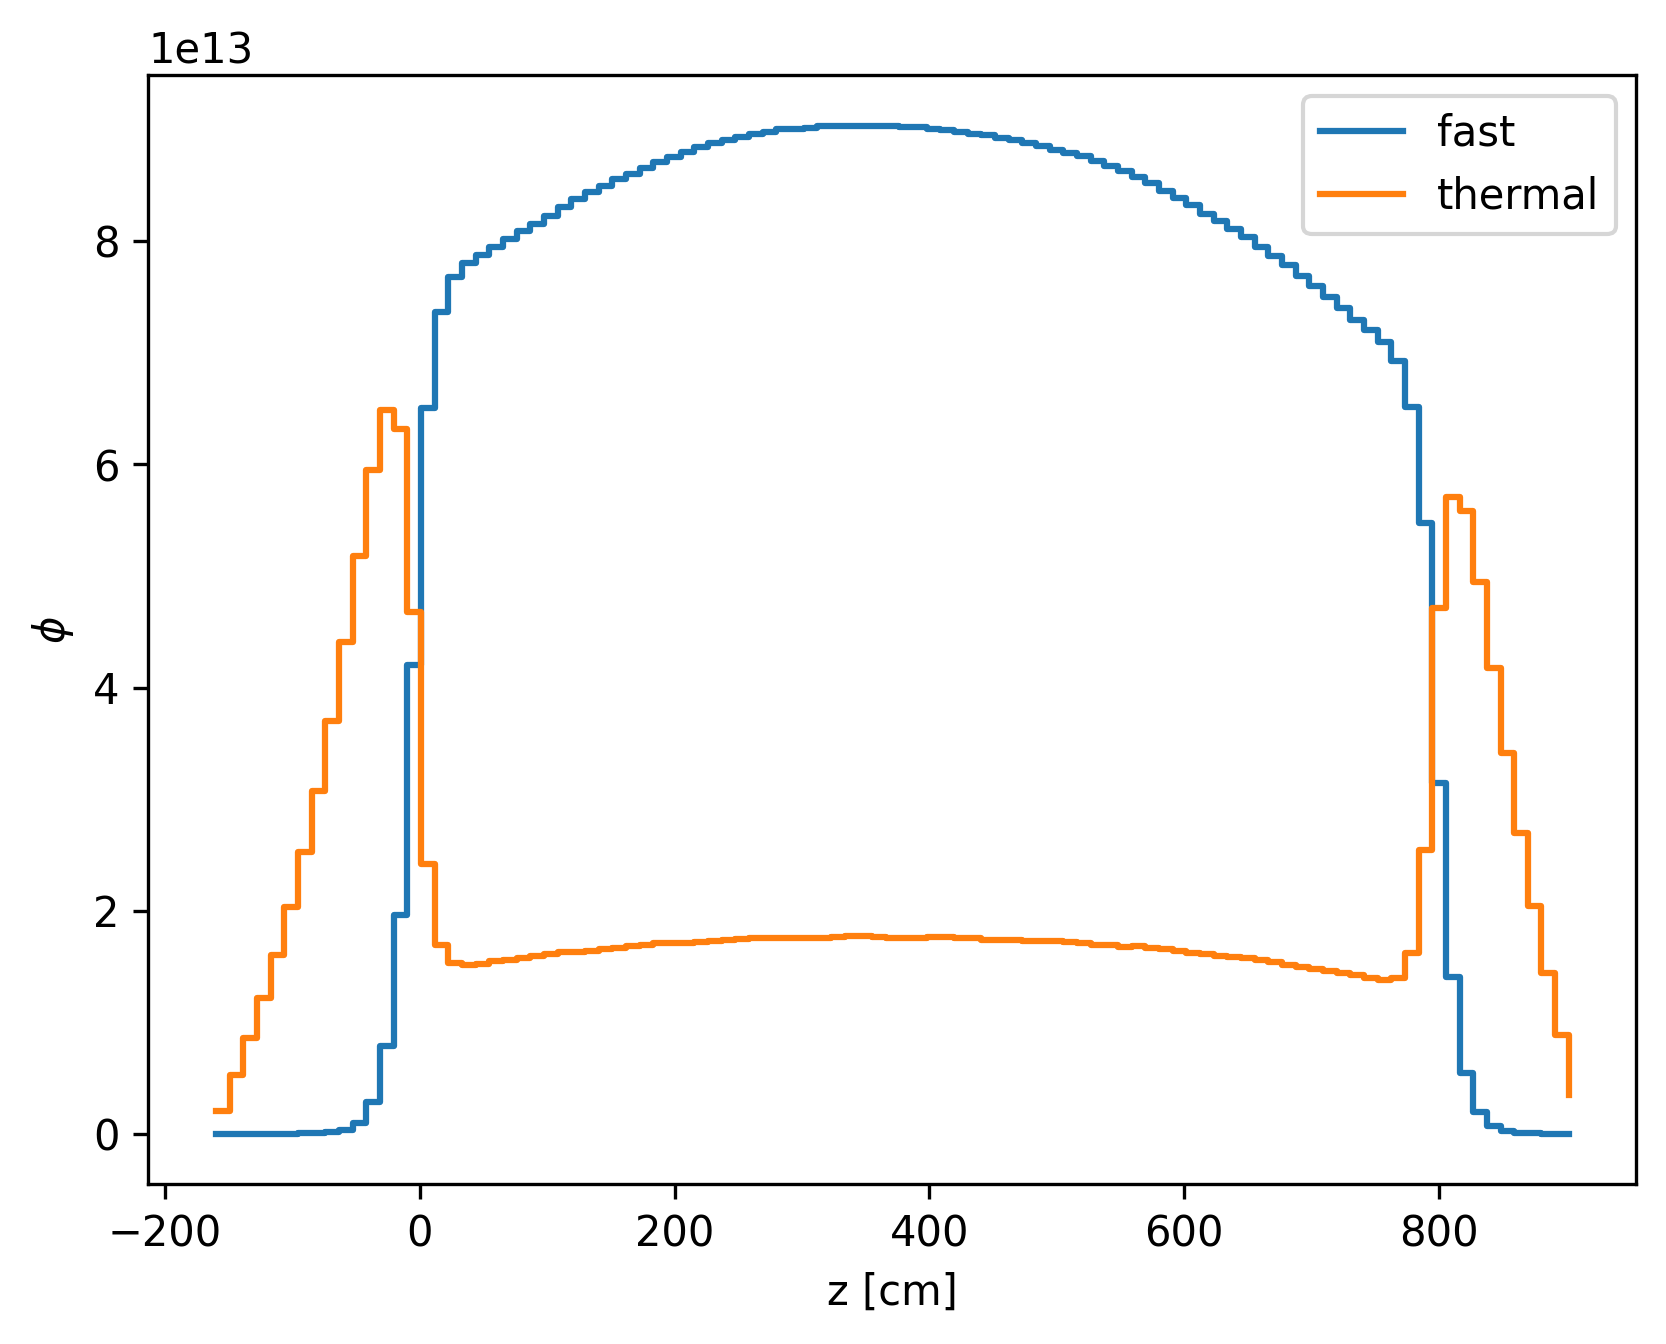
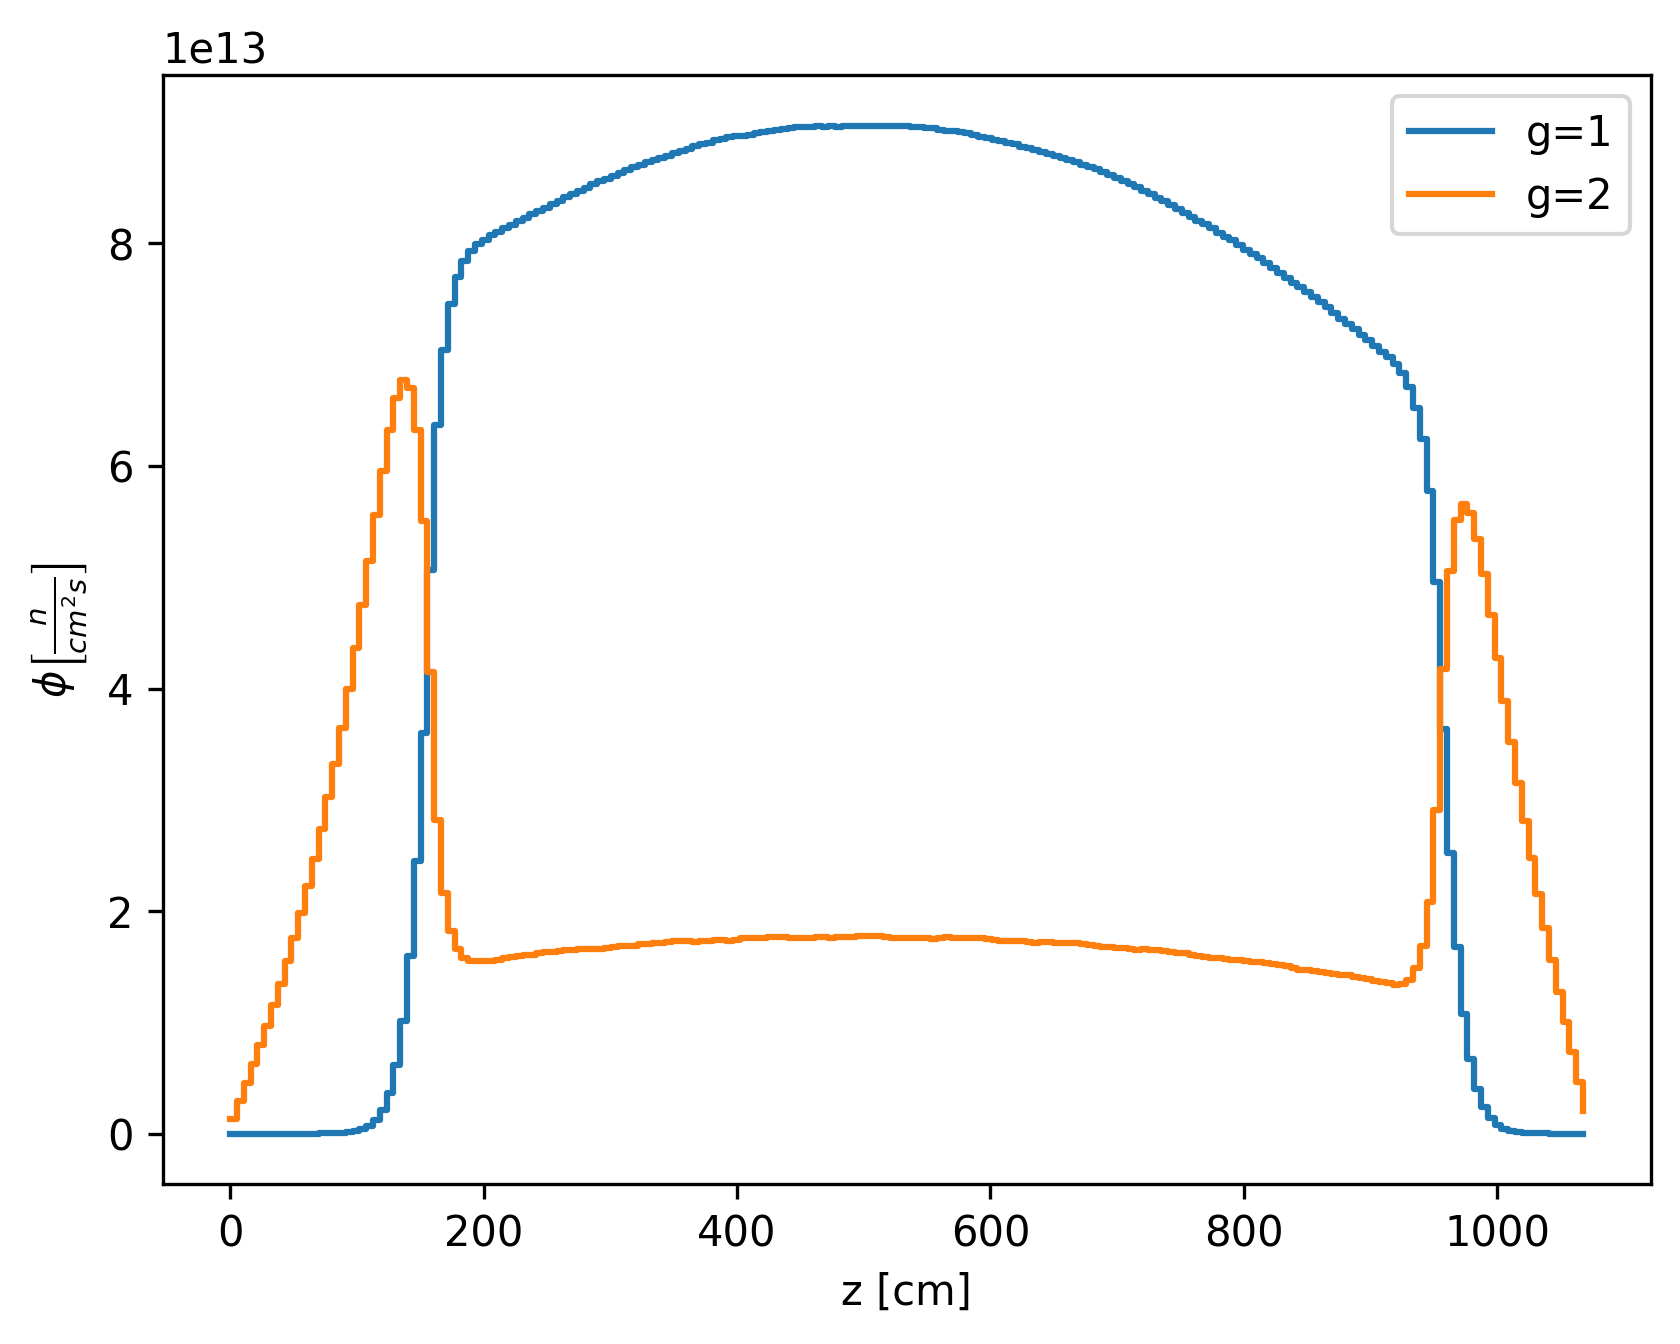
fixes figure

diff --git a/serpent-moltres/problem-setup/auxiliary.py b/serpent-moltres/problem-setup/auxiliary.py
@@ -4,8 +4,8 @@ from matplotlib.cbook import get_sample_data
 import matplotlib.patches as mpatches
 import matplotlib.pyplot as plt
 import matplotlib.ticker as ticker
-# import matplotlib.axes.Axes 
 import pandas as pd
+import serpentTools as st
 
 
 def standard():
@@ -93,6 +93,45 @@ def moltres_assembly_legend():
                 dpi=300, bbox_inches="tight")
 
 
+def plot_serpent_axial(data, name, save, V=1, dire='Z'):
+    """
+    Plots axial flux from serpent detector.
+
+    Parameters:
+    -----------
+    data: [serpenttools format]
+    name: [string]
+        name of the detector
+    fig: [string]
+        root name of the figure
+    V: [float]
+        total volume where the detector is applied [cm3]
+    dire: [float]
+        direction that the detector faces: 'X', 'Y', 'Z'
+    """
+    det = data.detectors[name]
+    z = [line[0] for line in det.grids[dire]]
+    z = np.array(z) + 160
+    val = det.tallies
+    vdetector = V/len(z)
+    val = val/vdetector
+    # M = max(val[1])
+    # val /= M
+    G = len(val)  # number of energy groups
+
+    plt.figure()
+    for i in range(G):
+        plt.step(z, val[G-1-i], where='post', label='g={0}'.format(i+1))
+
+    plt.xlabel(dire.lower()+' [cm]')
+    plt.ylabel(r'$\phi \left[\frac{n}{cm^2s}\right]$')
+    if G < 20:
+        plt.legend(loc="upper right")
+    else:
+        plt.legend(loc="upper left", bbox_to_anchor=(1., 1.2), fancybox=True)
+    plt.savefig(save + '-' + name, dpi=300, bbox_inches="tight")
+
+
 def plotcsv_frommoose_groups(file, save, G=2, dire='z'):
     '''
     Moltres output is a csv file.
@@ -156,13 +195,20 @@ def plotcsv_frommoose_groups(file, save, G=2, dire='z'):
 
 def main():
     # Serpent results
-    # Adds legend to geometry figure
-    standard()
+    # Add legend to geometry figure
+    # standard()
 
+    # Plot flux
+    data = st.read('standard-column_det0.m', reader='det')
+    save = 'standard-column-detector'
+    A = 18/np.cos(np.pi/6)  # cm length of face of the hexagon
+    Ah = 6. * (A * 18./2)  # Area of the hexagon
+    V = Ah * (160 + 793 + 120)
+    plot_serpent_axial(data, 'Axial', save, V)
 
     # Moltres results
-    # Adds legend to geometry figure
-    moltres_assembly_legend()
+    # Add legend to geometry figure
+    # moltres_assembly_legend()
 
     # Plot flux
     file = '3D-assembly-homo-eig-fuel_0002.csv'
